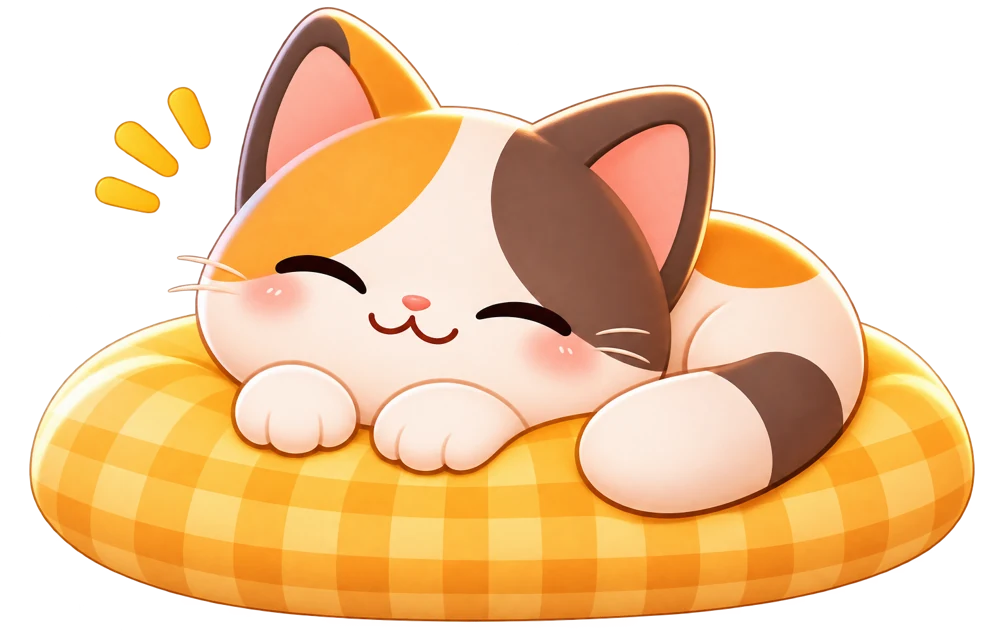
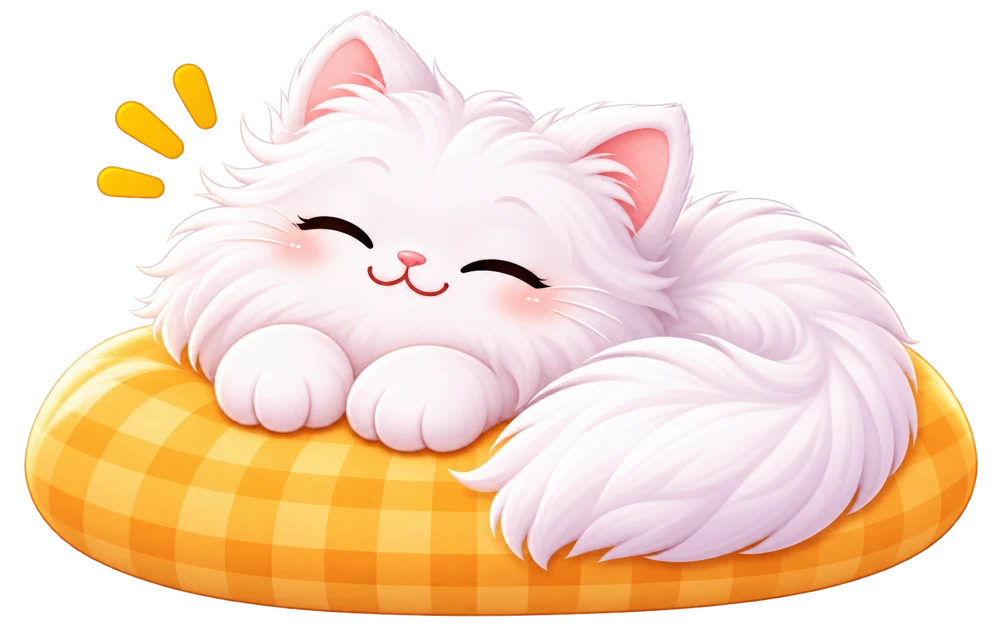
Use a white British Longhair for the homepage mascot

diff --git a/public/index.html b/public/index.html
@@ -62,7 +62,7 @@
                         <a class="hero-secondary" href="#about">About Us</a>
                     </div>
                 </div>
-                <img class="hero-mascot" src="img/home-mascot.webp" width="1000" height="631" alt="">
+                <img class="hero-mascot" src="img/home-mascot.webp" width="1000" height="633" alt="">
             </section>
             <svg class="hero-wave" viewBox="0 0 1440 54" preserveAspectRatio="none" aria-hidden="true">
                 <path d="M0 32C180 -5 330 64 535 36S720 12 875 35s255 -43 565 -9v28H0z"/>
